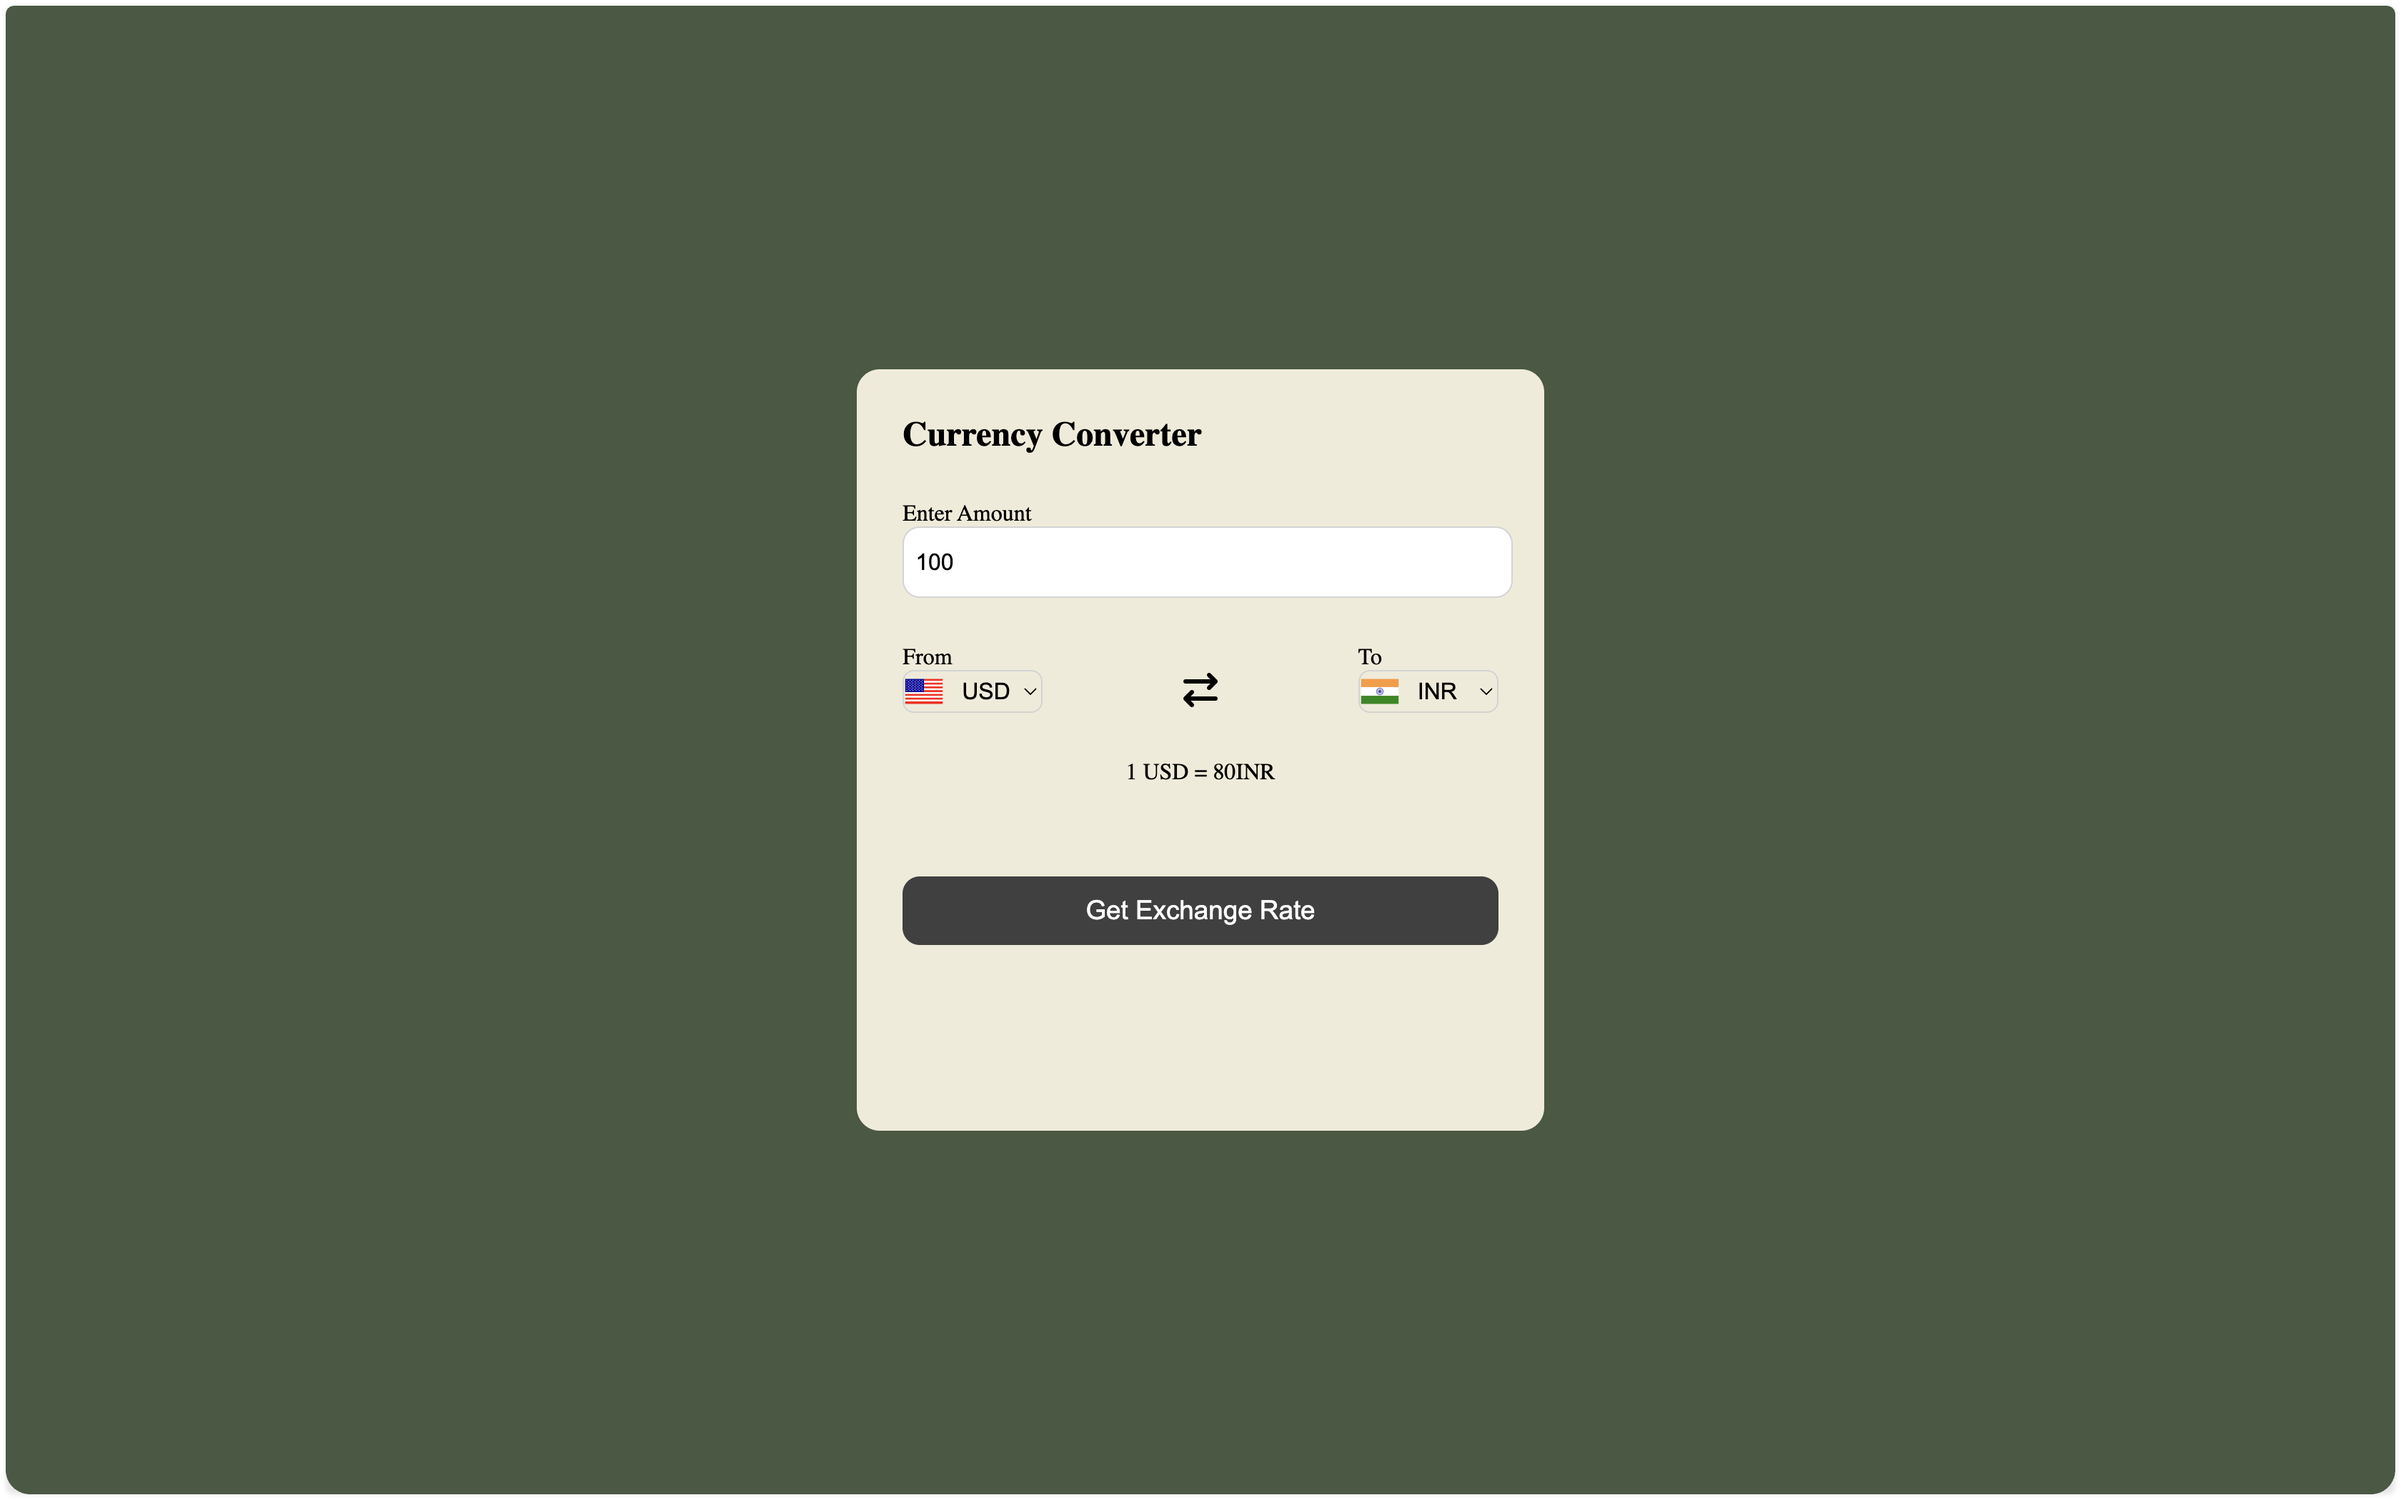
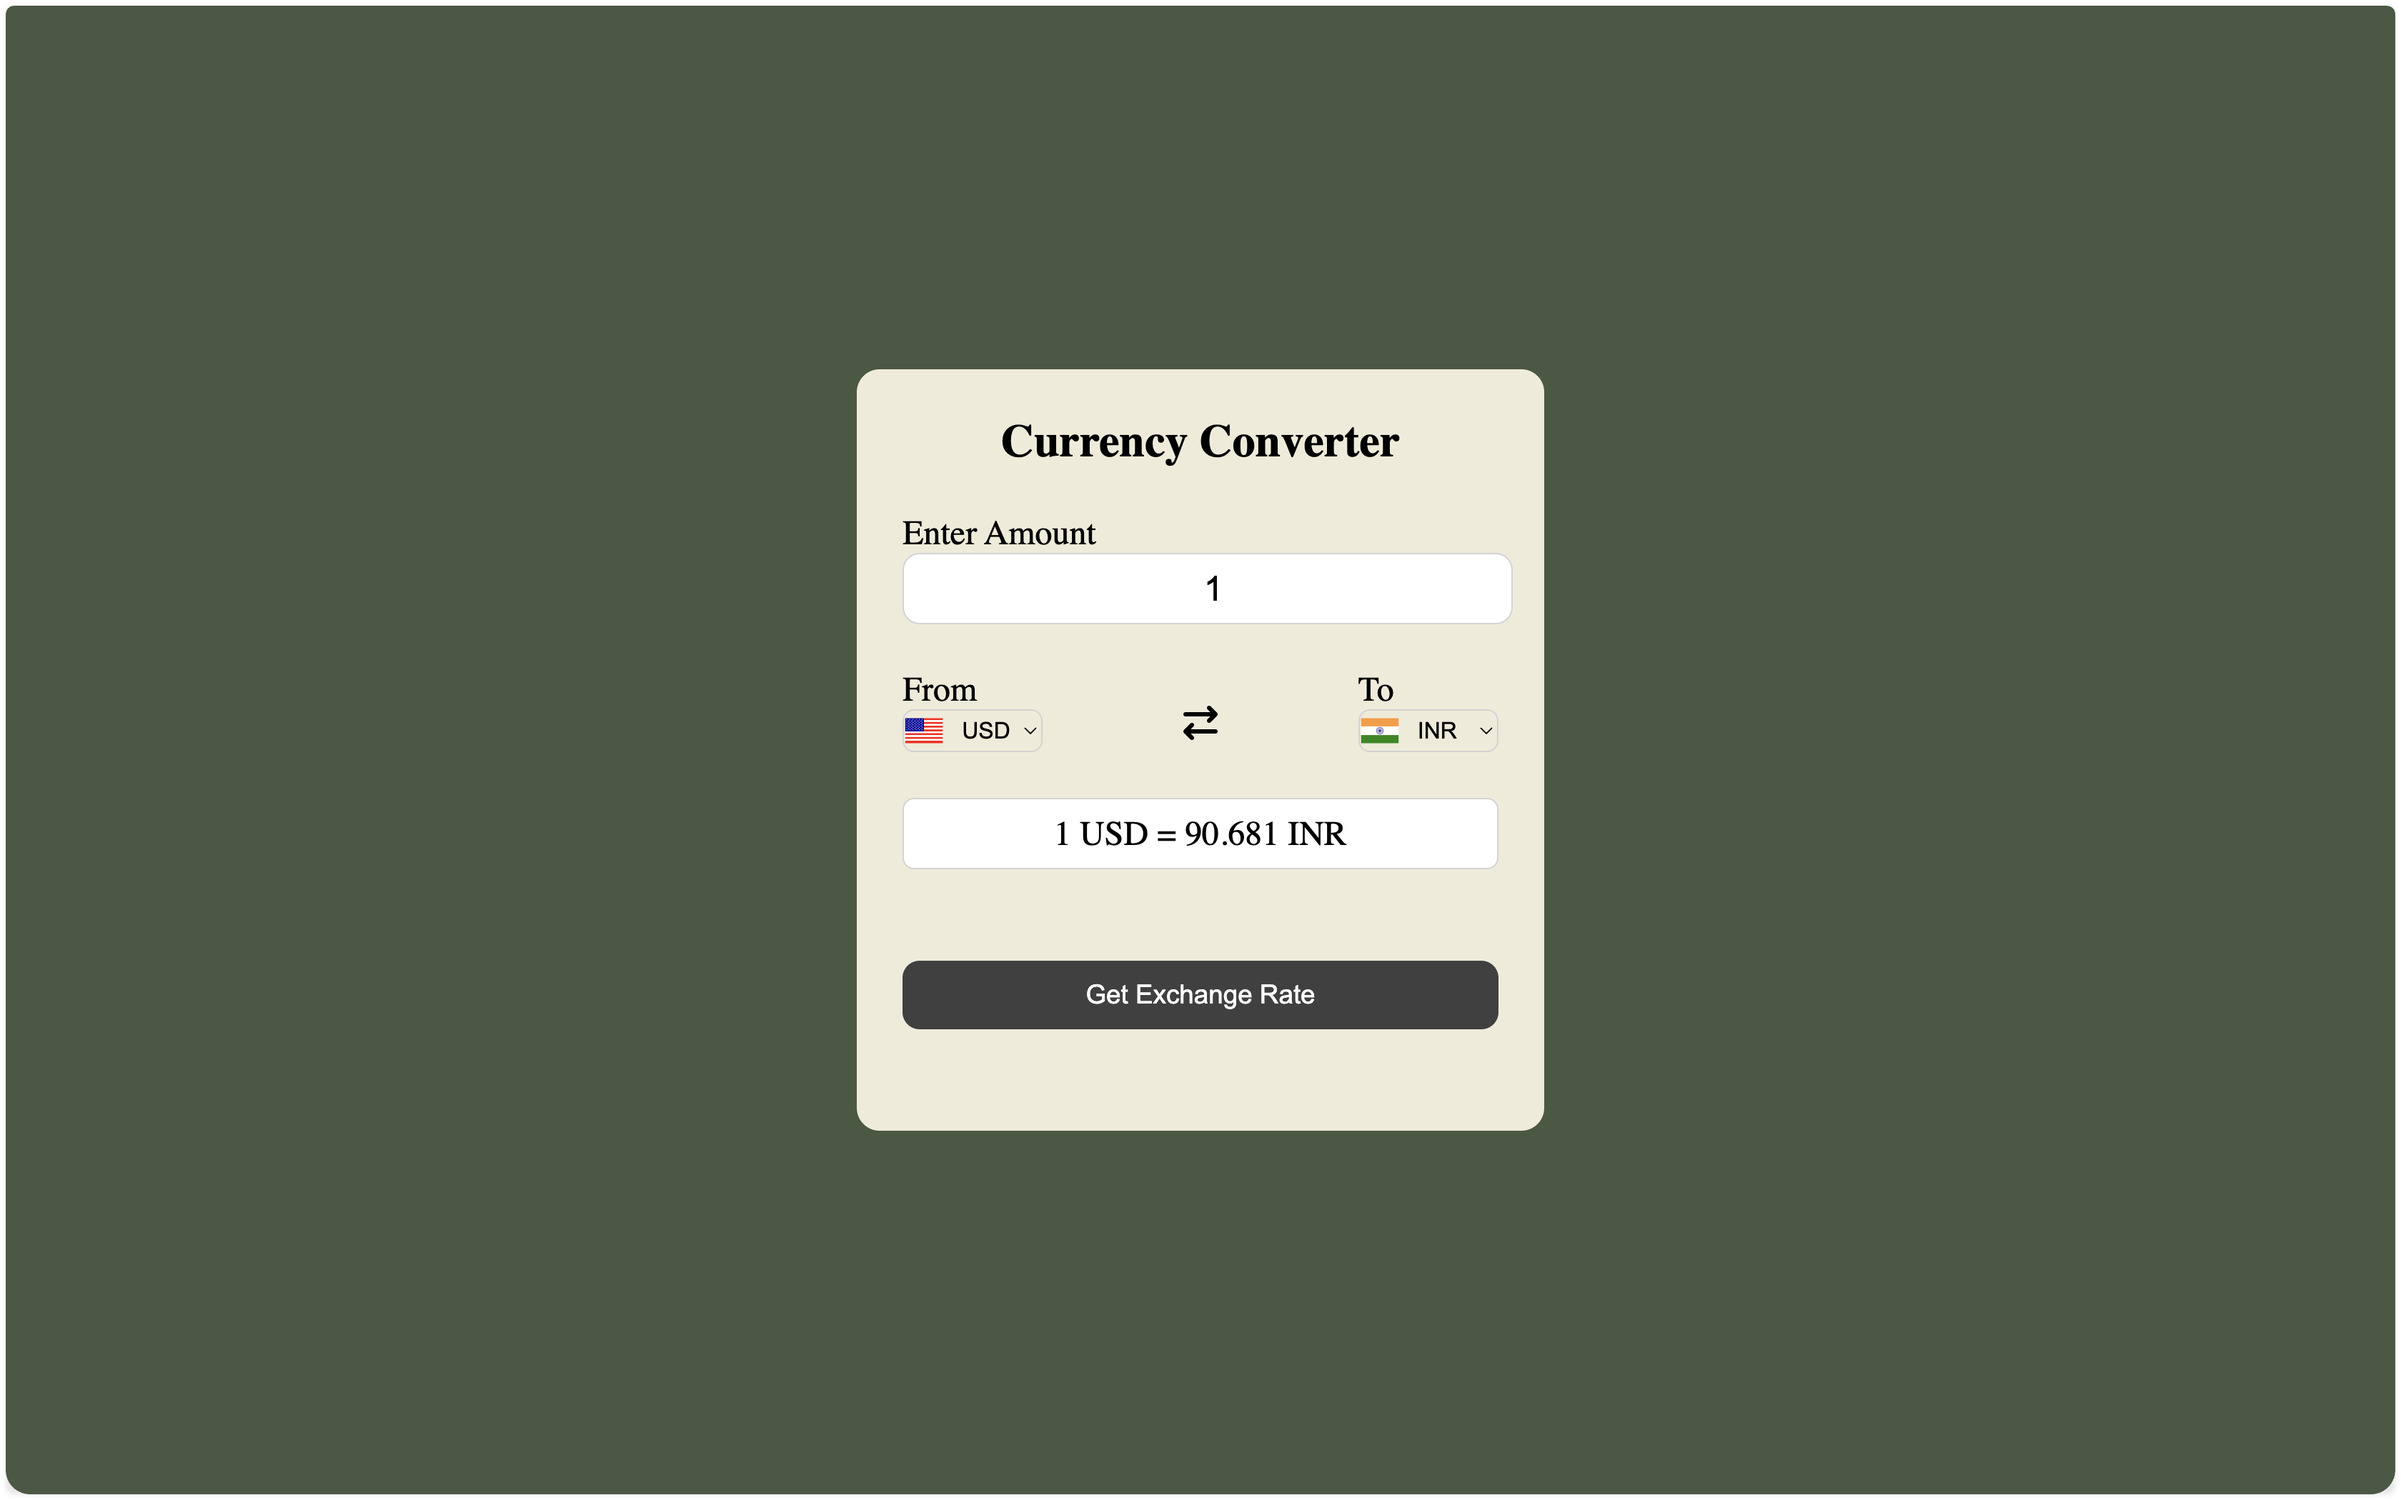
updated UI

Changed region(s): [[0.375, 0.4952, 0.625, 0.7119], [0.375, 0.3405, 0.625, 0.4952], [0.375, 0.2786, 0.5938, 0.3095]]

diff --git a/style.css b/style.css
@@ -31,11 +31,26 @@ form select,button,input {
     border-radius: 0.75rem;
 }
 
+p{
+    font-size: 1.5rem;
+}
+
+h2{
+    display: flex;
+    font-size: 2rem;
+    text-align: center;
+    justify-content: center;
+}
 form input {
+    display: flex;
     border: 1px solid lightgray;
     font-size: 1rem;
     height: 3rem;
     padding-left: 0.5rem ;
+    align-items: center;
+    justify-content: center;
+    text-align: center;
+    font-size: 1.5rem;
 
 }
 
@@ -72,9 +87,16 @@ form input {
 }
 
 .msg {
-     margin: 2rem 0 2rem 0;
-     justify-content: center;
-     display: flex;
+    display: flex;
+    justify-content: center;
+    align-items: center;
+    text-align: center;
+    font-size: 1.5rem;
+    margin: 2rem 0 2rem 0;
+    background-color: #fff;
+    border: 1px solid lightgray;
+    height: 3rem;
+    border-radius: 0.5rem;
 }
 
 form button{

diff --git a/app.js b/app.js
@@ -6,7 +6,7 @@ const fromCurr =  document.querySelector(".from select");
 const toCurr= document.querySelector(".to select");
 const mesg = document.querySelector(".msg")
 
-document.addEventListener("load",()=>{
+window.addEventListener("load",()=>{
     updateExchangeRate();
 })
 

diff --git a/index.html b/index.html
@@ -16,7 +16,7 @@
         <h2>Currency Converter</h2>
         <form>
         <p>Enter Amount</p>
-        <input value="100" type="text" >
+        <input value="1" type="text" >
         <div>
             <div class="dropdown">
                 <div class="from">
